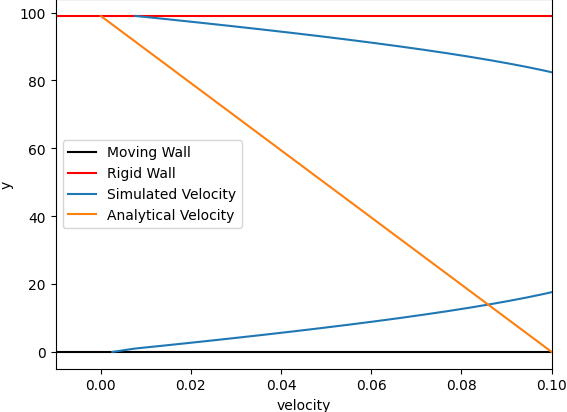
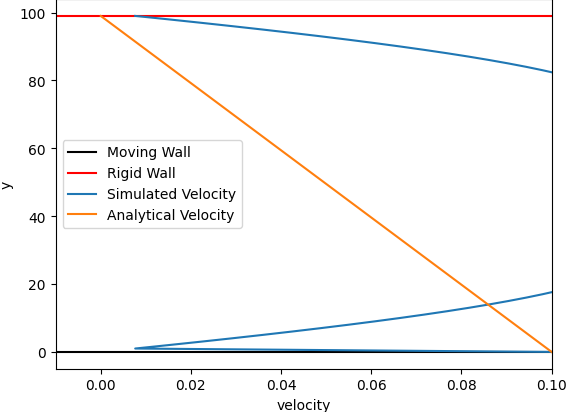
update_velocity for moving walls

Changed region(s): [[0.1799, 0.8447, 0.9594, 0.8738]]

diff --git a/lb/boundaries.py b/lb/boundaries.py
@@ -56,10 +56,7 @@ class RigidWall(Boundary):
         if (self.placement == 'top'):
             f[self.input_channels, -1, :] = self.cached[self.output_channels, -1, :]
         elif (self.placement == 'bottom'):
-            print(f[self.input_channels, 0, :].shape)
-            print(self.cached[self.output_channels, 0, None].shape)
             f[self.input_channels, 0, :] = self.cached[self.output_channels, 0, None]
-            print(f[self.input_channels, 0, :].shape)
         elif (self.placement == 'left'):
             f[self.input_channels, :, 0] = self.cached[self.output_channels, :, 0]
         elif (self.placement == 'right'):
@@ -112,27 +109,27 @@ class MovingWall(Boundary):
         #f[self.input_channels, :, -1] = self.cached[self.output_channels, :, -1] - value #coef[self.output_channels, :, -1]
 
         density = self.calculate_wall_density(f)
-        #print("density: " + str(density.shape))
+        """
         multiplier = 2 * (1/self.cs) ** 2
         temp = (C @ self.velocity)
-        #print("temp Shape: " + str(temp.shape))
-        #print("W Shape: " + str(W.shape))
+        
         temp2 = density * W[:, None]
-        #print("temp2 Shape: " + str(temp2.shape))
         
         momentum = multiplier * temp2 * temp[:, None]
-        #print("Pre Shape: " + str(momentum.shape))
         momentum = momentum[self.output_channels, :]
-        #print("After Shape: " + str(momentum.shape))
         temp3 = (self.cached[self.output_channels, :] - momentum)
-        #print("temp3 Shape: " + str(temp4.shape))
         self.update_f(f, temp3 )
+        """
+        
+        density = self.calculate_wall_density(f)
+        multiplier = 2 * (1/self.cs) ** 2
+        momentum = multiplier * (C @ self.velocity) * (W.T * density[:, None])
+        momentum = momentum[:, self.output_channels].T
+        self.update_f(f, (self.cache[:, self.output_channels].T - momentum).T)
 
     def update_velocity(self, velocities):
         if (self.placement == 'top'):
-            print(velocities[:, :, -1].shape)
-            #print(self.velocity.shape)
-            velocities[:, :, 0] = self.velocity[:, None]
+            velocities.T[:,0] = self.velocity
         elif (self.placement == 'bottom'):
             velocities[:, :, -1] = self.velocity
         elif (self.placement == 'left'):

diff --git a/couette_flow.py b/couette_flow.py
@@ -6,7 +6,7 @@ from plot import Plotter2
 from lb import RigidWall, MovingWall, PeriodicWall
 
 def couette_flow_sim(nx: int = 100, ny: int = 100, omega: float = 0.6, epsilon: float = 0.01,
-                          steps: int = 100, p0: float = 1.0):
+                          steps: int = 2000, p0: float = 1.0):
     
     # split velocity set into x and y components (unused right now)
     #ux = np.zeros((nx, ny))
@@ -25,11 +25,10 @@ def couette_flow_sim(nx: int = 100, ny: int = 100, omega: float = 0.6, epsilon: 
         latticeBoltzmann.tick()
         rho, velocities = latticeBoltzmann.get_rho(), latticeBoltzmann.get_velocities()
         # plot shear wave every 200 steps 
-        
-        if((step % 200 == 0)):
-            for boundary in boundaries:
+        for boundary in boundaries:
                 boundary.update_velocity(velocities)
-            plotter.plot_cuette_flow(velocities, np.array(0.0, 0.1), step, nx, ny)
+        if((step % 200 == 0)):
+            plotter.plot_cuette_flow(velocities, [0.0, 0.1], step, nx, ny)
         print("Step: {}".format(step))
 
 couette_flow_sim()

diff --git a/plot.py b/plot.py
@@ -89,4 +89,5 @@ class Plotter2:
         self.figs[0].savefig(save_path, bbox_inches='tight', pad_inches=0)
     
     
+    
    
